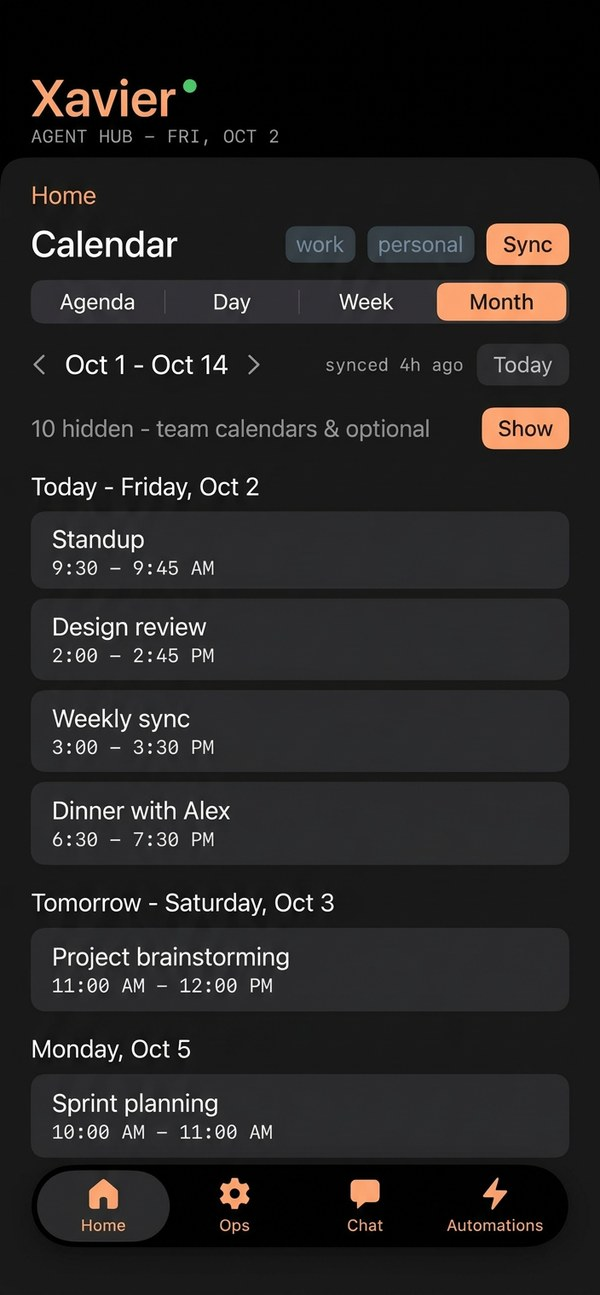
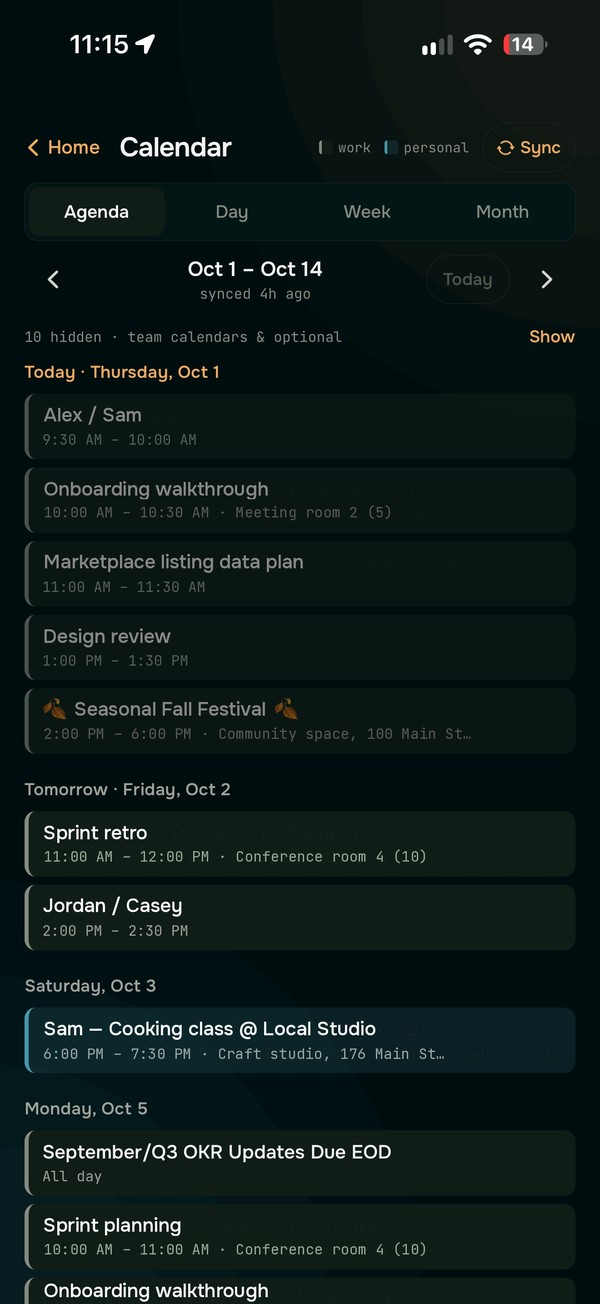
docs: rebuild the whole screenshot set from the app's own captures
Every screen is now an edit of a real capture, with strings swapped for
sample data, instead of a redrawn lookalike. The set shares one typeface,
one scale and one visual language, so it reads as one app.

Renders come from the app's own type tokens (React Native at 3x, so
px = pt * 3), which is what makes the replacements metrically identical
to what the app draws.

Added: cost, agenda, calendar week, automations, and six widget screens.
Removed: brief, feed and config (no first-party capture existed), plus
two unreferenced xavier portraits.

No personal, team, employer or internal names, no real host paths and no
credentials remain in any image; verified by screening every file.

diff --git a/README.md b/README.md
@@ -93,22 +93,27 @@ Tailscale, Headscale, WireGuard, Cloudflare Tunnel, or LAN-only — see
 The app, dark theme, sample data throughout:
 
 ![Home](assets/img/app-home.jpg)
+![Chat — thread list](assets/img/app-chat.jpg)
 ![Chat — the empty thread](assets/img/app-chat-thread.jpg)
-![Chat](assets/img/app-chat.jpg)
 
-![Calendar](assets/img/app-calendar.jpg)
-![Calendar, agenda](assets/img/app-agenda.jpg)
+![Calendar — day](assets/img/app-calendar.jpg)
+![Calendar — week](assets/img/app-calweek.jpg)
+![Calendar — agenda](assets/img/app-agenda.jpg)
 
 ![Weather](assets/img/app-weather.jpg)
 ![Rain forecast](assets/img/app-precip.jpg)
 
-![Brief](assets/img/app-brief.jpg)
-![Feed](assets/img/app-feed.jpg)
-
 ![Cost](assets/img/app-cost.jpg)
 
 ![Ops](assets/img/app-ops.jpg)
-![Config](assets/img/app-config.jpg)
+![Automations](assets/img/app-automations.jpg)
+
+![Widgets — card, metric and chart](assets/img/app-widgets-card.jpg)
+![Widgets — table and charts](assets/img/app-widgets-table.jpg)
+![Widgets — progress, link and buttons](assets/img/app-widgets-misc.jpg)
+![Widgets — poll and checklist](assets/img/app-widgets-poll.jpg)
+![Widgets — timeline](assets/img/app-widgets-timeline.jpg)
+![Widgets — form](assets/img/app-widgets-form.jpg)
 
 ```
 hub-stack/
